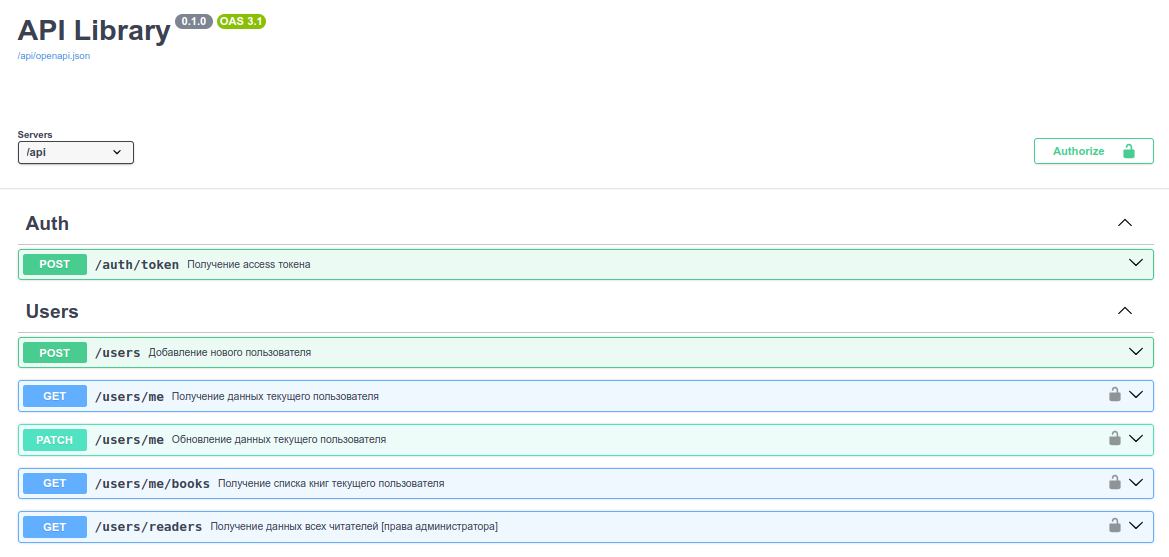
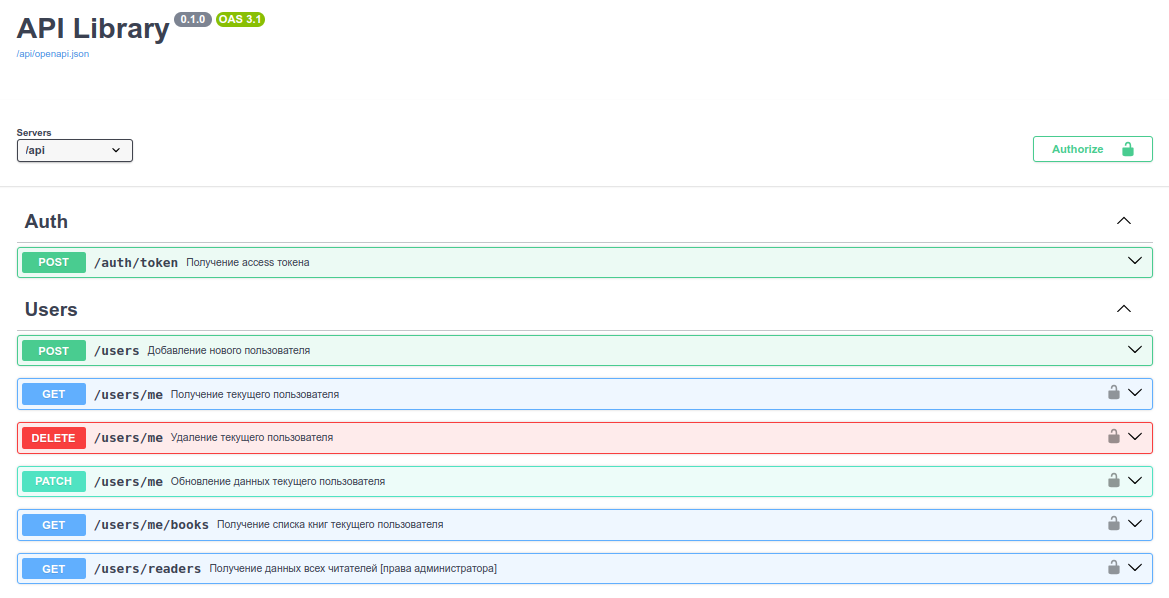
Fixed auth

diff --git a/src/presentation/http/user.py b/src/presentation/http/user.py
@@ -1,11 +1,18 @@
+import logging
 from typing import Annotated
 
 from fastapi import APIRouter, Depends, status
 
 from application.schemas.book import BookUserReturn
-from application.schemas.user import User, UserReturn, UserUpdate
+from application.schemas.user import User, UserAuth, UserReturn, UserUpdate
+from application.services.token import TokenService
 from application.services.user import UserService
-from presentation.dependencies import provide_users_service
+from domain.models.role import RoleType
+from presentation.dependencies import (
+    get_logger,
+    provide_token_service,
+    provide_users_service,
+)
 from presentation.exceptions import UserExceptions
 
 from .auth.controller import get_current_user, is_access_granted, is_reader
@@ -30,22 +37,37 @@ async def register_user(
     return UserReturn.model_validate(resp)
 
 
-@user_router.get("/me", summary="Получение данных текущего пользователя")
-async def get_auth_user(
-    user: Annotated[UserReturn, Depends(get_current_user)]
-) -> UserReturn:
+@user_router.get("/me", summary="Получение текущего пользователя")
+async def get_auth_user(user: Annotated[UserAuth, Depends(get_current_user)]) -> UserAuth:
     return user
+
+
+@user_router.delete("/me", summary="Удаление текущего пользователя")
+async def delete_auth_user(
+    token_service: Annotated[TokenService, Depends(provide_token_service)],
+    user_service: Annotated[UserService, Depends(provide_users_service)],
+    logger: Annotated[logging.Logger, Depends(get_logger)],
+    user: Annotated[UserAuth, Depends(get_current_user)],
+) -> UserReturn:
+
+    sub = f"user:{user.id}:{user.role}"
+
+    await token_service.revoke_token(sub)
+    logger.info(f"Revoked access token: {sub=}")
+
+    resp = await user_service.delete_user(id=user.id)
+    return UserReturn.model_validate(resp)
 
 
 @user_router.patch("/me", summary="Обновление данных текущего пользователя")
 async def update_auth_user(
     data: UserUpdate,
     user_service: Annotated[UserService, Depends(provide_users_service)],
-    user: Annotated[UserReturn, Depends(get_current_user)],
+    user: Annotated[UserAuth, Depends(get_current_user)],
 ) -> UserReturn:
-    if data.username != user.username:
-        if await user_service.get_user(username=data.username):
-            raise UserExceptions.ExistedException()
+    existed = await user_service.get_user(username=data.username)
+    if existed and existed.id != user.id:
+        raise UserExceptions.ExistedException()
 
     resp = await user_service.update_user(data, user_id=user.id)
     return UserReturn.model_validate(resp)
@@ -54,8 +76,9 @@ async def update_auth_user(
 @user_router.get("/me/books", summary="Получение списка книг текущего пользователя")
 async def get_reader_books(
     user_service: Annotated[UserService, Depends(provide_users_service)],
-    reader: Annotated[UserReturn, Depends(is_reader)],
+    reader: Annotated[UserAuth, Depends(is_reader)],
 ) -> list[BookUserReturn]:
+
     _, books = await user_service.get_user_with_books(id=reader.id)
     return [
         BookUserReturn(
@@ -70,7 +93,7 @@ async def get_reader_books(
 )
 async def get_readers(
     user_service: Annotated[UserService, Depends(provide_users_service)],
-    admin: Annotated[UserReturn, Depends(is_access_granted)],
-) -> UserReturn:
-    readers = await user_service.get_users(role="reader")
+    admin: Annotated[UserAuth, Depends(is_access_granted)],
+) -> list[UserReturn]:
+    readers = await user_service.get_users(role=RoleType.reader)
     return [UserReturn.model_validate(reader) for reader in readers]

diff --git a/src/presentation/http/book.py b/src/presentation/http/book.py
@@ -5,7 +5,7 @@ from fastapi import APIRouter, Depends, status
 
 from application.schemas.author import Author, AuthorReturn
 from application.schemas.book import Book, BookReturn, BookUpdate
-from application.schemas.user import UserReturn
+from application.schemas.user import UserAuth
 from application.services.author import AuthorService
 from application.services.book import BookService
 from application.services.user import UserService
@@ -33,7 +33,7 @@ book_router = APIRouter(
 async def add_book(
     book: Book,
     books_service: Annotated[BookService, Depends(provide_books_service)],
-    admin: Annotated[UserReturn, Depends(is_access_granted)],
+    admin: Annotated[UserAuth, Depends(is_access_granted)],
 ) -> BookReturn:
     existed = await books_service.get_book(title=book.title)
     if existed:
@@ -51,15 +51,12 @@ async def get_books(
     return [BookReturn.model_validate(book) for book in books]
 
 
-@book_router.patch(
-    "/borrow",
-    summary="Выдача книги читателю",
-)
+@book_router.patch("/borrow", summary="Выдача книги читателю")
 async def borrow_book(
     title: str,
     books_service: Annotated[BookService, Depends(provide_books_service)],
     user_service: Annotated[UserService, Depends(provide_users_service)],
-    reader: Annotated[UserReturn, Depends(is_reader)],
+    reader: Annotated[UserAuth, Depends(is_reader)],
     logger: Annotated[logging.Logger, Depends(get_logger)],
 ) -> BookReturn:
 
@@ -84,15 +81,12 @@ async def borrow_book(
     return BookReturn.model_validate(resp)
 
 
-@book_router.patch(
-    "/return",
-    summary="Возврат книги читателем",
-)
+@book_router.patch("/return", summary="Возврат книги читателем")
 async def return_book(
     title: str,
     books_service: Annotated[BookService, Depends(provide_books_service)],
     user_service: Annotated[UserService, Depends(provide_users_service)],
-    reader: Annotated[UserReturn, Depends(is_reader)],
+    reader: Annotated[UserAuth, Depends(is_reader)],
     logger: Annotated[logging.Logger, Depends(get_logger)],
 ) -> BookReturn:
 
@@ -119,7 +113,7 @@ async def update_book(
     id: int,
     params: Annotated[BookUpdate, Depends()],
     books_service: Annotated[BookService, Depends(provide_books_service)],
-    admin: Annotated[UserReturn, Depends(is_access_granted)],
+    admin: Annotated[UserAuth, Depends(is_access_granted)],
 ) -> BookReturn:
 
     if params.title:
@@ -137,7 +131,7 @@ async def update_book(
 async def delete_book(
     id: int,
     books_service: Annotated[BookService, Depends(provide_books_service)],
-    admin: Annotated[UserReturn, Depends(is_access_granted)],
+    admin: Annotated[UserAuth, Depends(is_access_granted)],
 ) -> BookReturn:
 
     resp = await books_service.delete_book(id=id)
@@ -154,7 +148,7 @@ async def add_author(
     author: Author,
     author_service: Annotated[AuthorService, Depends(provide_authors_service)],
     books_service: Annotated[BookService, Depends(provide_books_service)],
-    admin: Annotated[UserReturn, Depends(is_access_granted)],
+    admin: Annotated[UserAuth, Depends(is_access_granted)],
 ) -> AuthorReturn:
 
     existed = await books_service.get_book(id=id)

diff --git a/src/presentation/http/auth/controller.py b/src/presentation/http/auth/controller.py
@@ -5,7 +5,7 @@ from fastapi import APIRouter, Depends
 from fastapi.security import OAuth2PasswordBearer, OAuth2PasswordRequestForm
 
 from application.schemas.token import TokenSchema
-from application.schemas.user import UserReturn
+from application.schemas.user import UserAuth, UserReturn
 from application.services.token import TokenService
 from application.services.user import UserService
 from presentation.dependencies import (
@@ -51,30 +51,26 @@ async def auth_user(
 
 async def get_current_user(
     token_service: Annotated[TokenService, Depends(provide_token_service)],
-    user_service: Annotated[UserService, Depends(provide_users_service)],
-    token: Annotated[str, Depends(oauth2_scheme)],
-) -> UserReturn:
+    token: Annotated[TokenSchema, Depends(oauth2_scheme)],
+) -> UserAuth:
     """
     Получение текущего пользователя
     """
 
     if not token:
-        raise AuthExceptions.AccessAdminException()
+        raise AuthExceptions.AccessDeniedException()
 
     if not (sub := await token_service.get_valid_token_sub(token)):
-        raise AuthExceptions.AccessAdminException()
+        raise AuthExceptions.AccessDeniedException()
 
-    user_id = int(sub.split(":")[1])
+    _, user_id, role = sub.split(":")
 
-    if not (user := await user_service.get_user(id=user_id)):
-        raise AuthExceptions.InvalidCredentialsException()
-
-    return UserReturn.model_validate(user)
+    return UserAuth(id=user_id, role=role)
 
 
 async def is_access_granted(
-    user: Annotated[UserReturn, Depends(get_current_user)]
-) -> UserReturn:
+    user: Annotated[UserAuth, Depends(get_current_user)]
+) -> UserAuth:
     """
     Проверка привилегированных прав
     """
@@ -85,7 +81,7 @@ async def is_access_granted(
     return user
 
 
-async def is_reader(user: Annotated[UserReturn, Depends(get_current_user)]) -> UserReturn:
+async def is_reader(user: Annotated[UserAuth, Depends(get_current_user)]) -> UserAuth:
     """
     Проверка прав читателя
     """

diff --git a/src/presentation/http/author.py b/src/presentation/http/author.py
@@ -3,7 +3,7 @@ from typing import Annotated
 from fastapi import APIRouter, Depends
 
 from application.schemas.author import AuthorReturn, AuthorUpdate
-from application.schemas.user import UserReturn
+from application.schemas.user import UserAuth
 from application.services.author import AuthorService
 from presentation.dependencies import provide_authors_service
 
@@ -31,7 +31,7 @@ async def update_author(
     id: int,
     params: Annotated[AuthorUpdate, Depends()],
     author_service: Annotated[AuthorService, Depends(provide_authors_service)],
-    admin: Annotated[UserReturn, Depends(is_access_granted)],
+    admin: Annotated[UserAuth, Depends(is_access_granted)],
 ) -> AuthorReturn:
 
     resp = await author_service.update_author(id=id, author=params)
@@ -45,7 +45,7 @@ async def update_author(
 async def delete_author(
     id: int,
     author_service: Annotated[AuthorService, Depends(provide_authors_service)],
-    admin: Annotated[UserReturn, Depends(is_access_granted)],
+    admin: Annotated[UserAuth, Depends(is_access_granted)],
 ) -> AuthorReturn:
 
     resp = await author_service.delete_author(id=id)

diff --git a/src/application/services/user.py b/src/application/services/user.py
@@ -35,7 +35,14 @@ class UserService:
         await self.user_repo.session.commit()
         return user
 
+    async def delete_user(self, id: int):
+        user = await self.user_repo.delete(item_id=id)
+        await self.user_repo.session.commit()
+        return user
+
     async def get_user_with_books(self, **filters) -> tuple:
-        user = await self.user_repo.get_one(**filters, load="selectin")
+        user = await self.user_repo.get_one_or_none(**filters, load="selectin")
+        if not user:
+            return None, None
         books = await user.awaitable_attrs.books
         return user, books

diff --git a/src/presentation/exceptions.py b/src/presentation/exceptions.py
@@ -10,6 +10,10 @@ class AuthExceptions:
         detail = "Недействительные аутентификационные данные"
         headers = {"WWW-Authenticate": "Bearer"}
 
+    class AccessDeniedException(HTTPExceptionBase):
+        status_code = status.HTTP_403_FORBIDDEN
+        detail = "Необходима авторизация"
+
     class AccessAdminException(HTTPExceptionBase):
         status_code = status.HTTP_403_FORBIDDEN
         detail = "Необходимы права администратора"

diff --git a/src/application/services/token.py b/src/application/services/token.py
@@ -36,10 +36,6 @@ class TokenService:
             return None
         return sub
 
-    async def revoke_token(self, token: str):
-        payload: dict = Token.decode_jwt(
-            token=token, private_key=settings.TOKEN_KEY_SECRET
-        )
-        sub = payload.get("sub")
+    async def revoke_token(self, sub: str):
         await self.token_repo.revoke(sub)
         return sub

diff --git a/src/application/schemas/user.py b/src/application/schemas/user.py
@@ -3,6 +3,15 @@ from pydantic import BaseModel, ConfigDict, Field
 from domain.models.role import RoleType
 
 
+class UserAuth(BaseModel):
+    """
+    Схема для аутентификации/авторизации
+    """
+
+    id: int
+    role: str
+
+
 class User(BaseModel):
     """
     Схема модели User, валидирует ввод
